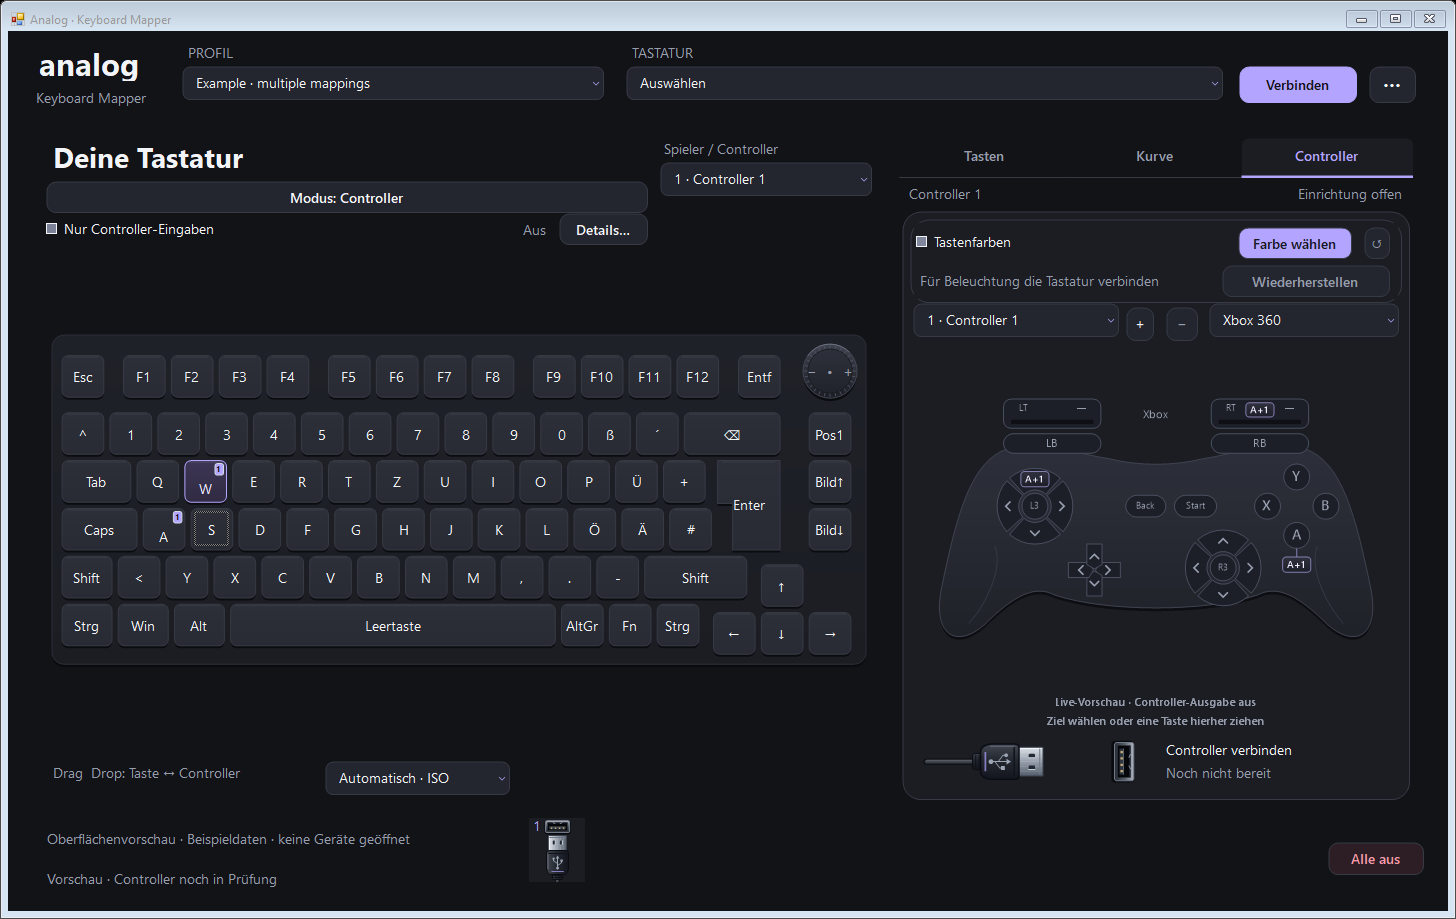
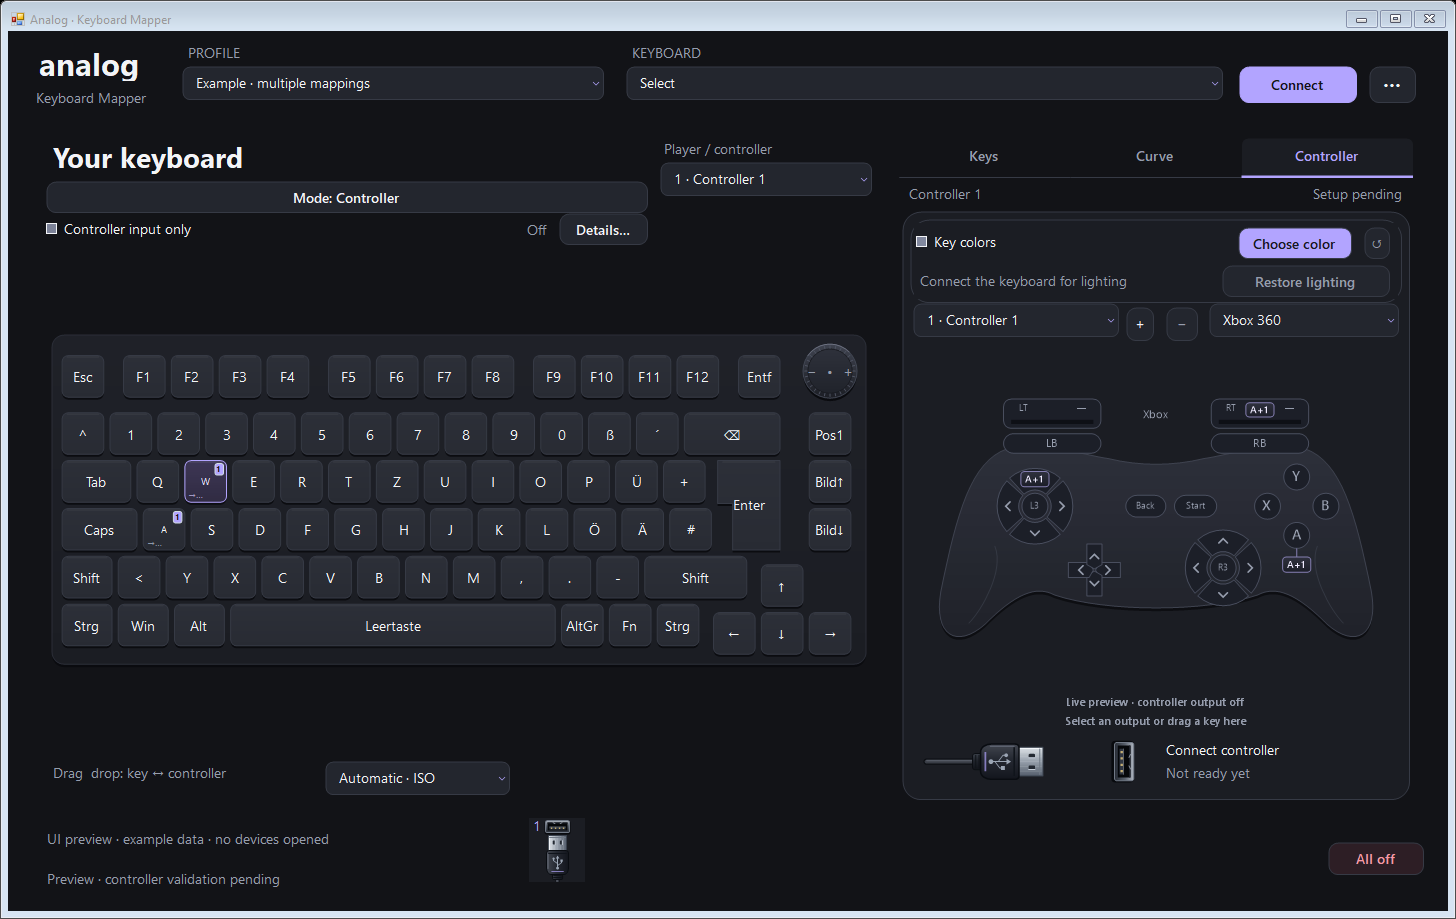
Refresh release screenshots and the guide for visual pressure controls

diff --git a/docs/user-guide.md b/docs/user-guide.md
@@ -18,7 +18,7 @@ Choose the physical **ANSI/ISO** layout and **QWERTY/QWERTZ** legends separately
 
 Each key can have its own pressure range, initially **0–385**. In **Keys**, drag the **Min** and **Max** handles to adjust every selected key together. Unselected keys keep their ranges. **Scale max** is shared by the physical keyboard; press Enter or leave the field to save it. The scale cannot be reduced below an existing key's maximum, so changing it never silently clips another key's range.
 
-To measure the range, select one or more keys and choose **Calibrate** beside the slider. Fully press one selected key once, then release it. Its measured minimum and maximum are saved automatically for the selected keys. A reading above the previous limit expands **Scale max** for the keyboard. **Cancel**, changing the selection or disconnecting discards an unfinished measurement. There is no second cycle or confirmation checkbox. Ranges are saved separately for each physical keyboard; existing saved ranges remain the fallback until you edit a key. The default range is not a factory measurement of your individual keyboard.
+To measure the range, select one or more keys and choose **Calibrate** beside the slider. Fully press one selected key once, then release it. Its measured minimum and maximum are saved automatically for the selected keys. A reading above the previous limit expands **Scale max** for the keyboard. **Cancel**, changing the selection, leaving Keys, hiding or minimizing the window, or disconnecting discards an unfinished measurement. There is no second cycle or confirmation checkbox. Ranges are saved separately for each physical keyboard; existing saved ranges remain the fallback until you edit a key. The default range is not a factory measurement of your individual keyboard.
 
 ## Select and map keys
 
@@ -85,7 +85,7 @@ Compact keycap footers mark configured keys: `↕25` is a fixed 25% input gate, 
 
 In **Curve**, sliders accompany the editable numbers for deadzones, output range, scale, smoothing and the other response options. A drag previews the response and becomes one undoable edit when released. The normal **Response** view includes deadzones, gain, output deadzone and output limits. The solid line shows pressing; the dashed line shows releasing when hysteresis changes the response. Shading and dotted guides explain the selected setting; they are not draggable points.
 
-The vertical **IN** rail beside the graph sets the usable input span between the two deadzones: released at the top, full pressure at the bottom. **OUT** sets minimum active and maximum output, with 100% at the top to match the output axis. Drag either rectangular handle, or focus a rail, choose a handle with Left/Right or Space, and adjust it with Up/Down. These are the same values shown in the list; all selected mappings update together and their dependent limits stay valid.
+The vertical **IN** rail beside the graph sets the usable input span between the two deadzones: released at the top, full pressure at the bottom. **OUT** sets minimum active and maximum output, with 100% at the top to match the output axis. Drag either rectangular handle, or focus a rail, choose a handle with Left/Right or Space, and adjust it with Up/Down. These are the same values shown in the list; all selected mappings update together and their dependent limits stay valid. The rails appear in Response and Edit shape. Movement and time illustrations hide them to keep their axes unambiguous; use Response to return to the ranges.
 
 Use **Edit shape** to create and drag actual custom or Bézier points. The button switches back to **Response** when you want to inspect the result of all output settings. Hover settings and points for explanations and coordinates. Input actuation has its own guide; Rapid Trigger movement is relative to the last peak or valley, so its illustration is a labeled example rather than a fixed release point. Smoothing uses a time-response illustration because it adds delay without changing the settled pressure curve. These previews update on changes and add no background animation loop.
 

diff --git a/docs/status.md b/docs/status.md
@@ -31,6 +31,8 @@ Profiles offer **32 output-capable slots in total**, each freely assigned to Xbo
 
 ## Recorded automated checks
 
+The completed [rc.7 editor validation](https://github.com/SirRanjid/analog-key-mapper/actions/runs/34776086015) passed all **52 offline suites**, including **12,421 application UI assertions**, **444 native theme checks** and **4,324 response-preview comparisons**. The controller-helper tests and version-checked packaging also passed. These checks use synthetic inputs and do not establish hardware or game acceptance.
+
 The rc.7 revision moves advanced physical-key controls beside the compact response graph, exposes one shape selector, visualizes output processing and separates editable shape points from response guides. Numeric rows are updated in place to prevent reentrant cell transitions. Theme checks read control pixels immediately during native scrollbar updates; pure response checks compare the preview with the signal processor. The [release page](https://github.com/SirRanjid/analog-key-mapper/releases) identifies each exact build and its [automated validation](https://github.com/SirRanjid/analog-key-mapper/actions); the recorded results below remain tied to their stated versions.
 
 The preceding rc.6 revision introduced per-key pressure ranges, selection-wide calibration, per-option threshold capture, keycap annotations and visible shutdown phases. Known RGB states need fewer verification requests; initial backup discovery still reads the complete original picture twice. rc.7 changes the editor and its previews, without increasing the background input polling rate.
@@ -57,7 +59,7 @@ The UI checks include original-size key and controller pixels, transparent conto
 
 The recorded UI revision includes 136 modifier-label checks, 66 output-summary checks and 147 SOCD-drag checks. Output summaries and selection outlines were also inspected in German and at minimum window size. A separate deterministic layout check covered 200 mixtures of all 24 controller targets in both styles, including 2,396 broad modifier labels, without creating a window or touching hardware. The background UI and visual-keyboard suites above also passed on this UI revision.
 
-The full offline command now discovers 48 suites. The initial finalization run exposed an RGB journal path-length failure; compact filenames fixed the underlying issue, with successful follow-up checks for ordinary download paths and legacy recovery. Packaging checks separately reject stale versions, changed executables, source/receipt mismatches and unlisted source files. The [GitHub workflow](https://github.com/SirRanjid/analog-key-mapper/actions/workflows/build.yml) builds both components, runs all offline suites and the Go protocol tests, then creates verified packages.
+The full offline command now discovers 52 suites. The initial finalization run exposed an RGB journal path-length failure; compact filenames fixed the underlying issue, with successful follow-up checks for ordinary download paths and legacy recovery. Packaging checks separately reject stale versions, changed executables, source/receipt mismatches and unlisted source files. The [GitHub workflow](https://github.com/SirRanjid/analog-key-mapper/actions/workflows/build.yml) builds both components, runs all offline suites and the Go protocol tests, then creates verified packages.
 
 These targeted runs use no real keyboard/controller and do not perform a complete native OLE drag. They do not establish that every suite in `Test-All.ps1` passed on every machine. A blocked or failed test must be reported as such.
 

diff --git a/README.md b/README.md
@@ -66,7 +66,7 @@ Capture an opposite key directly on the keyboard:
 
 </details>
 
-Screenshots use synthetic example data and show English and German interfaces. English is the default language.
+Screenshots use synthetic example data. The interface is shown in English; key legends follow the selected physical keyboard layout.
 
 ## Contributing and license
 
